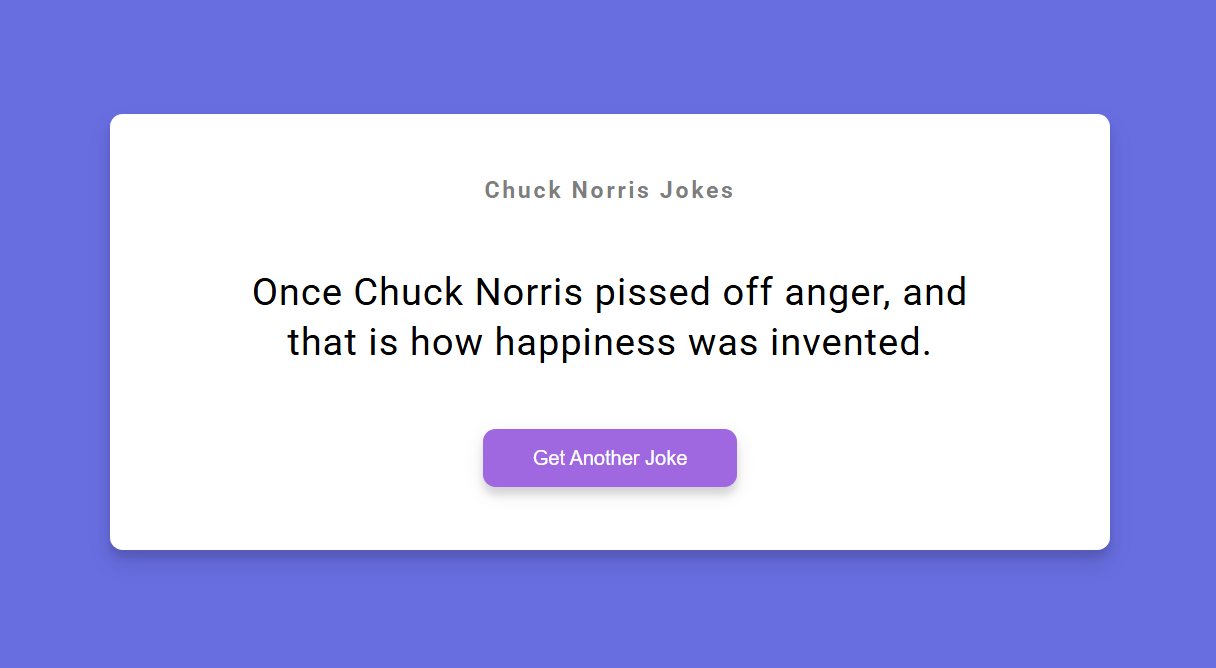
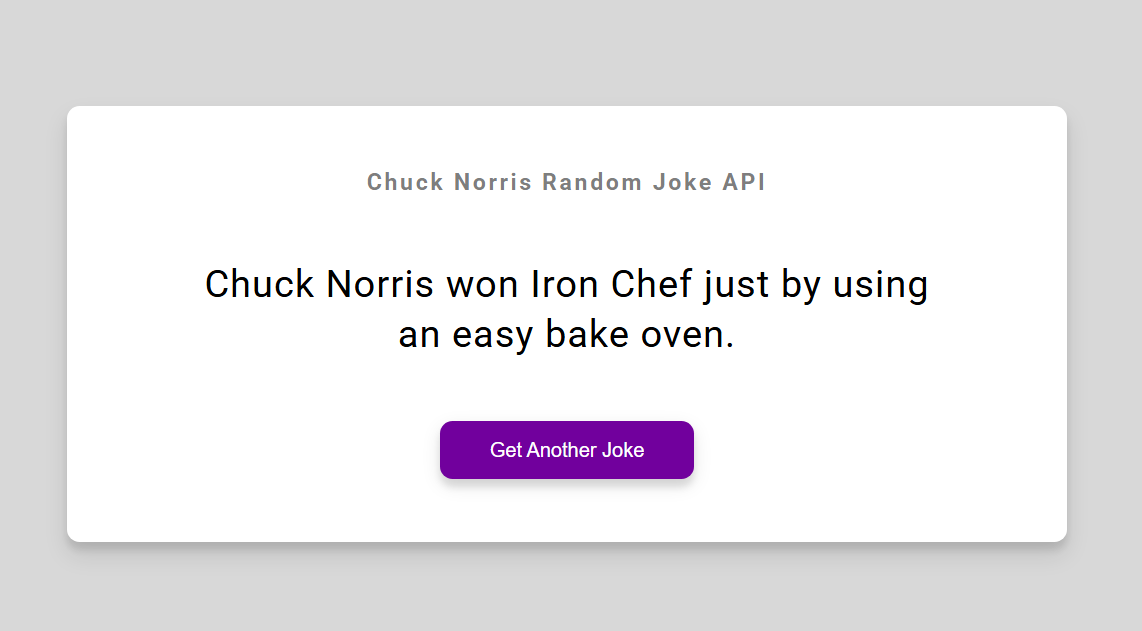
Some bugs fixed

diff --git a/chuck-joke-generator/style.css b/chuck-joke-generator/style.css
@@ -5,11 +5,11 @@
 }
 
 body {
-  background-color: #686de0;
+  background-color: #d8d8d8;
   font-family: 'Roboto', sans-serif;
   display: flex;
   flex-direction: column;
-  align-items: center;
+  align-items: center;  
   justify-content: center;
   height: 100vh;
   overflow: hidden;
@@ -42,7 +42,7 @@ h3 {
 }
 
 .btn {
-  background-color: #9f68e0;
+  background-color: #71009d;
   color: #fff;
   border: 0;
   border-radius: 10px;
